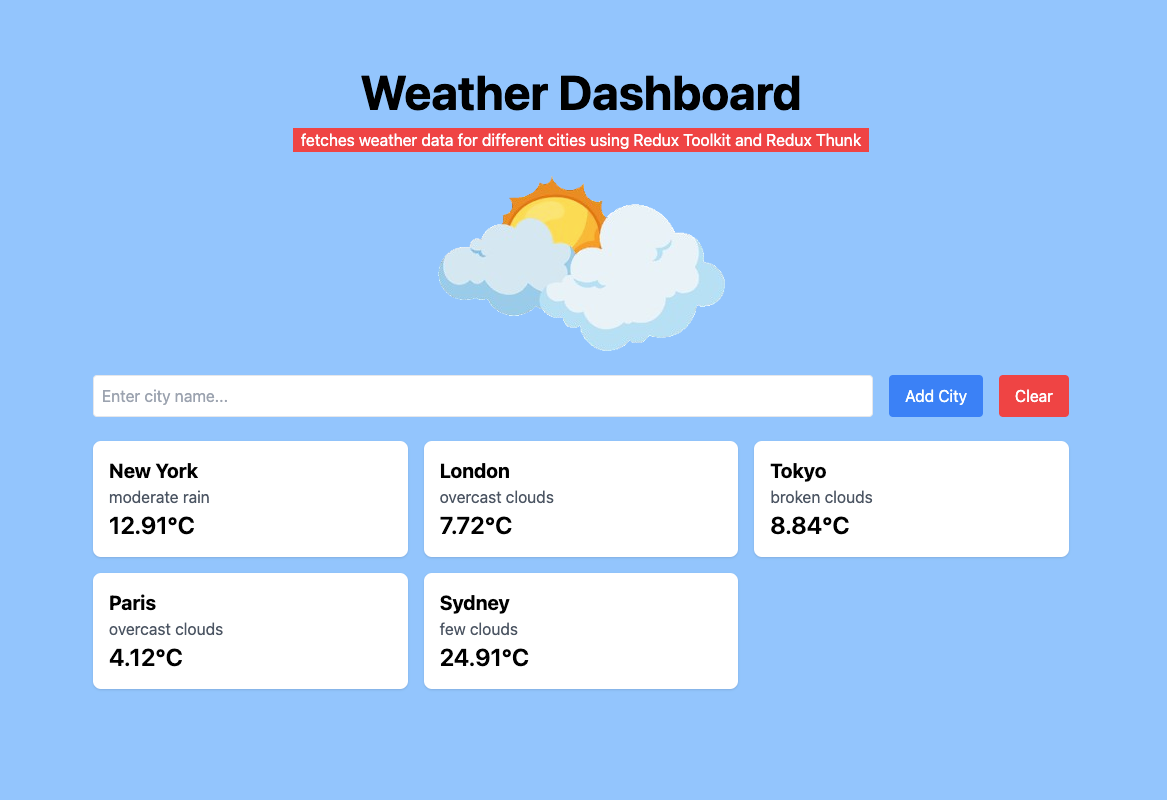
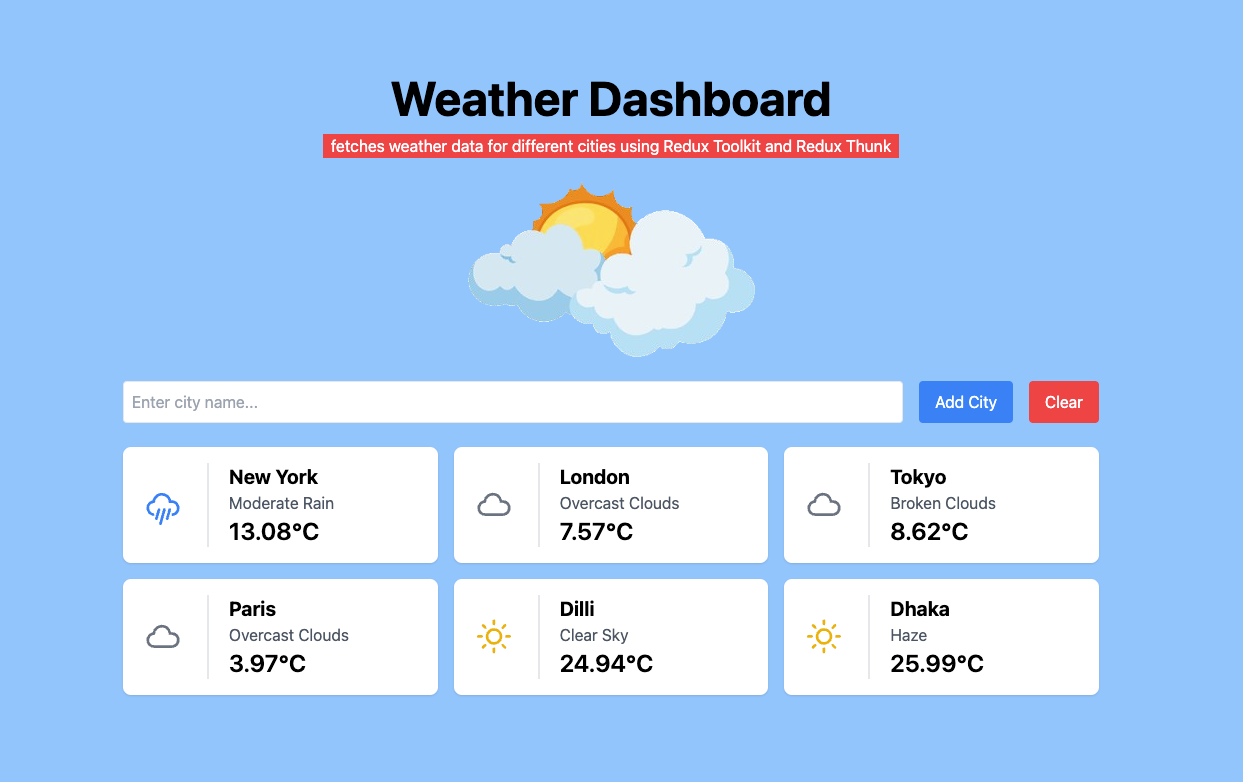
update cards

Changed region(s): [[0.0617, 0.0921, 0.9254, 0.89]]

diff --git a/src/components/WeatherCard.jsx b/src/components/WeatherCard.jsx
@@ -1,11 +1,28 @@
 import React from "react";
+import { WiDaySunny, WiCloud, WiRain } from "react-icons/wi"; // Weather icons from react-icons
 
 const WeatherCard = ({ city, temp, description }) => {
+  // Determine the icon based on the weather description
+  const getWeatherIcon = (description) => {
+    if (description.includes("sun")) {
+      return <WiDaySunny className="text-yellow-500 text-5xl" />;
+    } else if (description.includes("rain")) {
+      return <WiRain className="text-blue-500 text-5xl" />;
+    } else if (description.includes("cloud")) {
+      return <WiCloud className="text-gray-500 text-5xl" />;
+    } else {
+      return <WiDaySunny className="text-yellow-500 text-5xl" />;
+    }
+  };
+
   return (
-    <div className="p-4 bg-white shadow rounded-lg">
-      <h2 className="text-xl font-bold">{city}</h2>
-      <p className="text-gray-600">{description}</p>
-      <p className="text-2xl font-semibold">{temp}°C</p>
+    <div className="p-4 bg-white shadow rounded-lg flex items-center">
+      <div className="mr-5">{getWeatherIcon(description)}</div>
+      <div className="border-l-2 pl-5">
+        <h2 className="text-xl font-bold">{city}</h2>
+        <p className="text-gray-600 capitalize">{description}</p>
+        <p className="text-2xl font-semibold">{temp}°C</p>
+      </div>
     </div>
   );
 };
